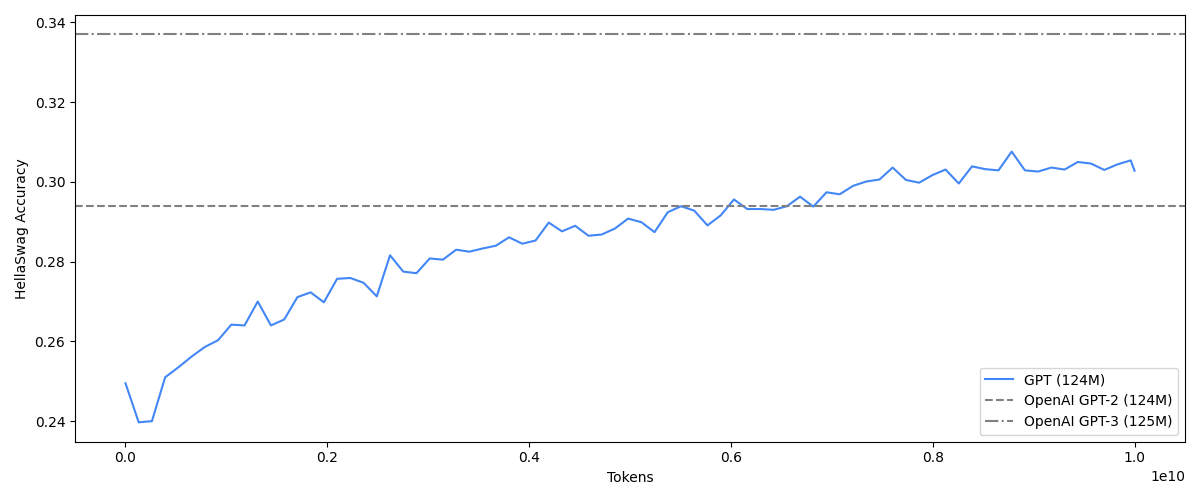
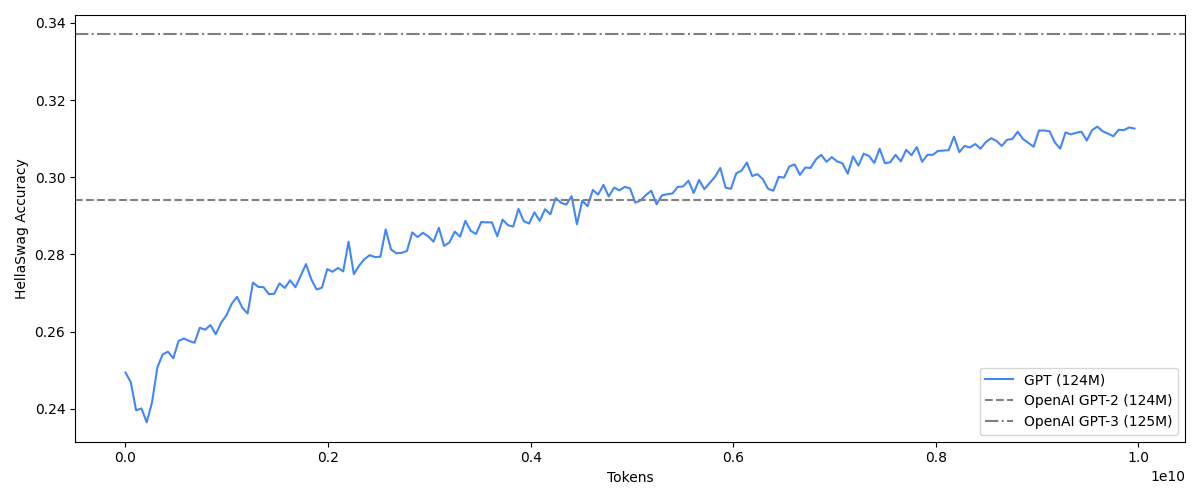
Updated loss and hellaswag graphs

diff --git a/README.md b/README.md
@@ -1,7 +1,7 @@
 # GPT
 A full implementation of a Generative Pre-trained Transformer (GPT) model following the architecture of OpenAI's [GPT-2](https://cdn.openai.com/better-language-models/language_models_are_unsupervised_multitask_learners.pdf) and [GPT-3](https://arxiv.org/abs/2005.14165) models as well as [nanoGPT](https://github.com/karpathy/nanoGPT) by Andrej Karpathy. The model is implemented in PyTorch and supports both single-GPU and multi-GPU training. The model is trained on the 10B token subset of [fineweb-edu](https://arxiv.org/pdf/2406.17557), a large-scale dataset of educational content.
 
-The model surpasses GPT-2 124M on [HellaSwag](https://arxiv.org/pdf/1905.07830) after just 6B tokens. This is a 16x improvement over GPT-2 124M, which was trained on 100B tokens. It is expected that with enough training (~45B tokens), the model will surpass GPT-3 125M, which was trained on 300B tokens. Training the 124M model for 1 epoch of the 10B fineweb-edu subset took ~3 hours on 8x A100-SMX4 40GB GPUs. A batch size of 32 was used.
+The model surpasses GPT-2 124M on [HellaSwag](https://arxiv.org/pdf/1905.07830) after just 5B tokens. This is a 20x improvement over GPT-2 124M, which was trained on 100B tokens. It is expected that with enough training (~45B tokens), the model will surpass GPT-3 125M, which was trained on 300B tokens. Training the 124M model for 1 epoch of the 10B fineweb-edu subset took ~3 hours on 8x A100-SMX4 40GB GPUs. A batch size of 32 was used.
 
 ![Alt text](assets/124M_10B_loss.png)
 ![Alt text](assets/124M_10B_hs.png)
